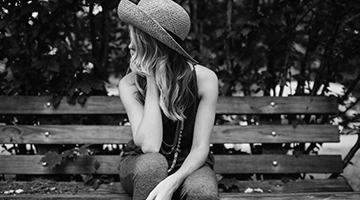
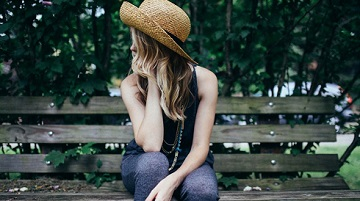
fix

diff --git a/index.html b/index.html
@@ -424,7 +424,7 @@
 			<div class="sliders row" id="sliders">   
             	<div class="slide__content col-md-4">
             		<div class="slide__content__image">
-            			<img src="img/blog/post1.jpg" alt="img">
+            			<a href=""><img src="img/blog/post1.jpg" alt="img"></a>
             			<div class="box-out">
             				<div class="box-in">
             					<p>Jan</p>
@@ -433,7 +433,7 @@
             			</div>
             		</div>
             		<div class="slide__content__text">
-            			<a href="">
+            			<a href="" name="title_slide">
             				<h4>
                 				In commodo dolor vitae
                 			</h4>
@@ -451,7 +451,7 @@
 
             	<div class="slide__content col-md-4">
             		<div class="slide__content__image">
-            			<img src="img/blog/post2.jpg" alt="img">
+            			<a href=""><img src="img/blog/post2.jpg" alt="img"></a>
             			<div class="box-out">
             				<div class="box-in">
             					<p>Jan</p>
@@ -460,7 +460,7 @@
             			</div>
             		</div>
             		<div class="slide__content__text">
-            			<a href="">
+            			<a href="" name="title_slide">
             				<h4>
                 				Vivamus non dignissim elit
                 			</h4>
@@ -478,7 +478,7 @@
 
             	<div class="slide__content col-md-4">
             		<div class="slide__content__image">
-            			<img src="img/blog/post3.jpg" alt="img">
+            			<a href=""><img src="img/blog/post3.jpg" alt="img"></a>
             			<div class="box-out">
             				<div class="box-in">
             					<p>Jan</p>
@@ -487,7 +487,7 @@
             			</div>
             		</div>
             		<div class="slide__content__text">
-            			<a href="">
+            			<a href="" name="title_slide">
             				<h4>
                 				Ut lacinia erat ut diam volutpat
                 			</h4>
@@ -505,7 +505,7 @@
         
             	<div class="slide__content col-md-4">
             		<div class="slide__content__image">
-            			<img src="img/blog/post1.jpg" alt="img">
+            			<a href=""><img src="img/blog/post1.jpg" alt="img"></a>
             			<div class="box-out">
             				<div class="box-in">
             					<p>Jan</p>
@@ -514,7 +514,7 @@
             			</div>
             		</div>
             		<div class="slide__content__text">
-            			<a href="">
+            			<a href="" name="title_slide">
             				<h4>
                 				In commodo dolor vitae
                 			</h4>
@@ -532,7 +532,7 @@
 
             	<div class="slide__content col-md-4">
             		<div class="slide__content__image">
-            			<img src="img/blog/post2.jpg" alt="img">
+            			<a href=""><img src="img/blog/post2.jpg" alt="img"></a>
             			<div class="box-out">
             				<div class="box-in">
             					<p>Jan</p>
@@ -541,7 +541,7 @@
             			</div>
             		</div>
             		<div class="slide__content__text">
-            			<a href="">
+            			<a href="" name="title_slide">
             				<h4>
                 				Vivamus non dignissim elit
                 			</h4>
@@ -559,7 +559,7 @@
 
             	<div class="slide__content col-md-4">
             		<div class="slide__content__image">
-            			<img src="img/blog/post3.jpg" alt="img">
+            			<a href=""><img src="img/blog/post3.jpg" alt="img"></a>
             			<div class="box-out">
             				<div class="box-in">
             					<p>Jan</p>
@@ -568,7 +568,7 @@
             			</div>
             		</div>
             		<div class="slide__content__text">
-            			<a href="">
+            			<a href="" name="title_slide">
             				<h4>
                 				Ut lacinia erat ut diam volutpat
                 			</h4>
@@ -586,7 +586,7 @@
            
             	<div class="slide__content col-md-4">
             		<div class="slide__content__image">
-            			<img src="img/blog/post1.jpg" alt="img">
+            			<a href=""><img src="img/blog/post1.jpg" alt="img"></a>
             			<div class="box-out">
             				<div class="box-in">
             					<p>Jan</p>
@@ -595,7 +595,7 @@
             			</div>
             		</div>
             		<div class="slide__content__text">
-            			<a href="">
+            			<a href="" name="title_slide">
             				<h4>
                 				In commodo dolor vitae
                 			</h4>
@@ -613,7 +613,7 @@
 
             	<div class="slide__content col-md-4">
             		<div class="slide__content__image">
-            			<img src="img/blog/post2.jpg" alt="img">
+            			<a href=""><img src="img/blog/post2.jpg" alt="img"></a>
             			<div class="box-out">
             				<div class="box-in">
             					<p>Jan</p>
@@ -622,7 +622,7 @@
             			</div>
             		</div>
             		<div class="slide__content__text">
-            			<a href="">
+            			<a href="" name="title_slide">
             				<h4>
                 				Vivamus non dignissim elit
                 			</h4>
@@ -640,7 +640,7 @@
 
             	<div class="slide__content col-md-4">
             		<div class="slide__content__image">
-            			<img src="img/blog/post3.jpg" alt="img">
+            			<a href=""><img src="img/blog/post3.jpg" alt="img"></a>
             			<div class="box-out">
             				<div class="box-in">
             					<p>Jan</p>
@@ -649,7 +649,7 @@
             			</div>
             		</div>
             		<div class="slide__content__text">
-            			<a href="">
+            			<a href="" name="title_slide">
             				<h4>
                 				Ut lacinia erat ut diam volutpat
                 			</h4>
@@ -664,6 +664,10 @@
             			</p>
             		</div>
             	</div>		            
+            </div>
+            <div class="arrows" id="arrows">
+    			<i class="fas fa-chevron-circle-left" id="click-back"></i>
+            	<i class="fas fa-chevron-circle-right" id="click-next"></i>
             </div>
 		</div>
 	</div>
@@ -813,14 +817,22 @@
 	      breakpoint: 950,
 	      settings: {
 	        slidesToShow: 2,
-	        slidesToScroll: 2
+	        slidesToScroll: 2,
+	        dots: false,
+	        arrows: true,
+	       	prevArrow: $('#click-back'),
+	       	nextArrow: $('#click-next')
 	      }
 	    },
 	    {
 	      breakpoint: 480,
 	      settings: {
 	        slidesToShow: 1,
-	        slidesToScroll: 1
+	        slidesToScroll: 1,
+	        dots: false,
+	        arrows: true,
+	       	prevArrow: $('#click-back'),
+	       	nextArrow: $('#click-next')
 	      }
 	    }
 	    // You can unslick at a given breakpoint now by adding:

diff --git a/css/style.css b/css/style.css
@@ -305,7 +305,11 @@
         left: 50%;
         transform: translateX(-50%); }
     .blog .blog__content .sliders {
+      position: relative;
+      position: relative;
       padding-top: 10px; }
+      .blog .blog__content .sliders button {
+        color: red; }
       .blog .blog__content .sliders .slide__content {
         max-width: 100% !important;
         padding-left: 15px;
@@ -313,7 +317,10 @@
         .blog .blog__content .sliders .slide__content .slide__content__image {
           position: relative; }
           .blog .blog__content .sliders .slide__content .slide__content__image img {
-            width: 100%; }
+            width: 100%;
+            filter: grayscale(100%); }
+          .blog .blog__content .sliders .slide__content .slide__content__image img:hover {
+            filter: grayscale(0%); }
           .blog .blog__content .sliders .slide__content .slide__content__image .box-out {
             width: 60px;
             height: 60px;
@@ -368,6 +375,24 @@
             color: #C0C0C0; }
         .blog .blog__content .sliders .slide__content .slick-active button {
           font-size: 30px; }
+      .blog .blog__content .sliders .slick-dots button:before {
+        color: #8262B5 !important; }
+      .blog .blog__content .sliders .slick-active button:before {
+        font-size: 12px; }
+    .blog .blog__content .arrows {
+      position: absolute;
+      top: 50%;
+      transform: translateY(-50%);
+      z-index: 1000;
+      text-align: center;
+      display: none; }
+      @media only screen and (min-width: 320px) and (max-width: 1196px) {
+        .blog .blog__content .arrows {
+          display: block; } }
+      .blog .blog__content .arrows #click-back {
+        float: left; }
+      .blog .blog__content .arrows #click-next {
+        float: right; }
 
 /* Style for Footer
 */

diff --git a/scss/base/_blog.scss b/scss/base/_blog.scss
@@ -38,6 +38,11 @@
 			}
 		}
 		.sliders {
+			position: relative;
+			button {
+				color: red;
+			}
+			position: relative;
 			padding-top: 10px;
 			.slide__content {
 				max-width: 100%!important;
@@ -47,6 +52,10 @@
 					position: relative;
 					img {
 						width: 100%;
+						filter: grayscale(100%);
+					}
+					img:hover {
+						filter: grayscale(0%);
 					}
 					.box-out {
 						width: 60px;
@@ -120,6 +129,33 @@
 					}
 				}
 			}
+			.slick-dots {
+				button:before {
+					color: #8262B5!important;
+				}
+			}
+			.slick-active {
+				button:before {
+					font-size: 12px;
+				}
+			} 
 		}	
+		.arrows {
+			position: absolute;
+			top: 50%;
+			transform: translateY(-50%);
+			z-index: 1000;
+			text-align: center;
+			display: none;
+			@include responsive_mobile {
+				display: block;
+			}
+			#click-back {
+				float: left;
+			}
+			#click-next {
+				float: right;
+			}
+		}
 	}
 }
